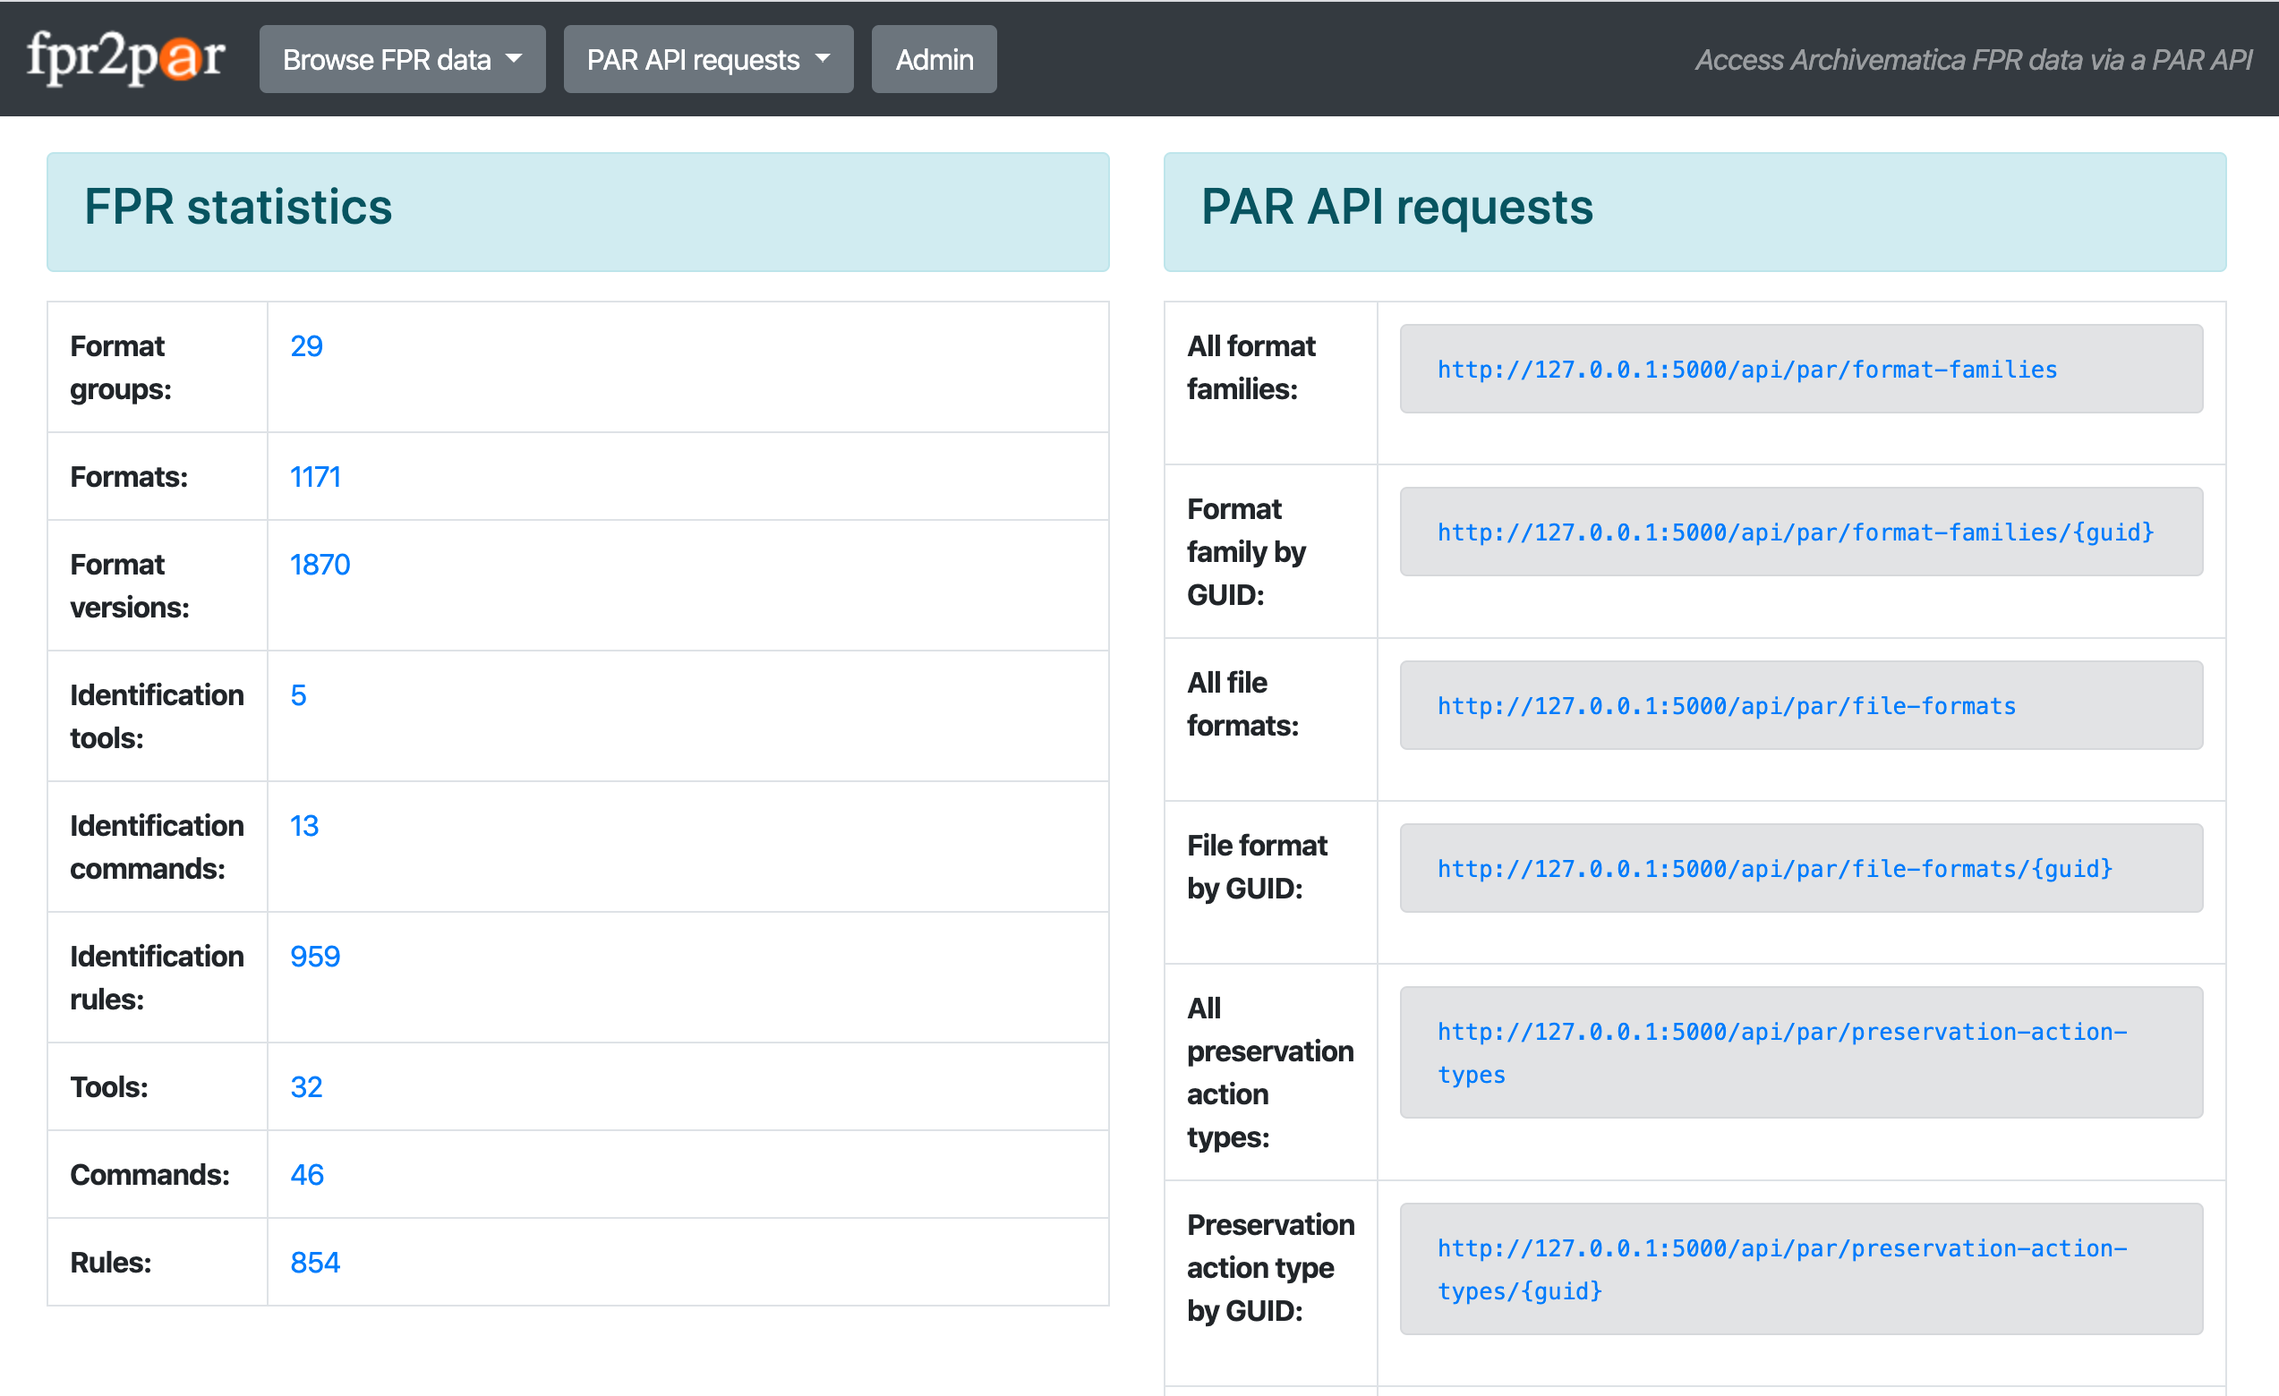
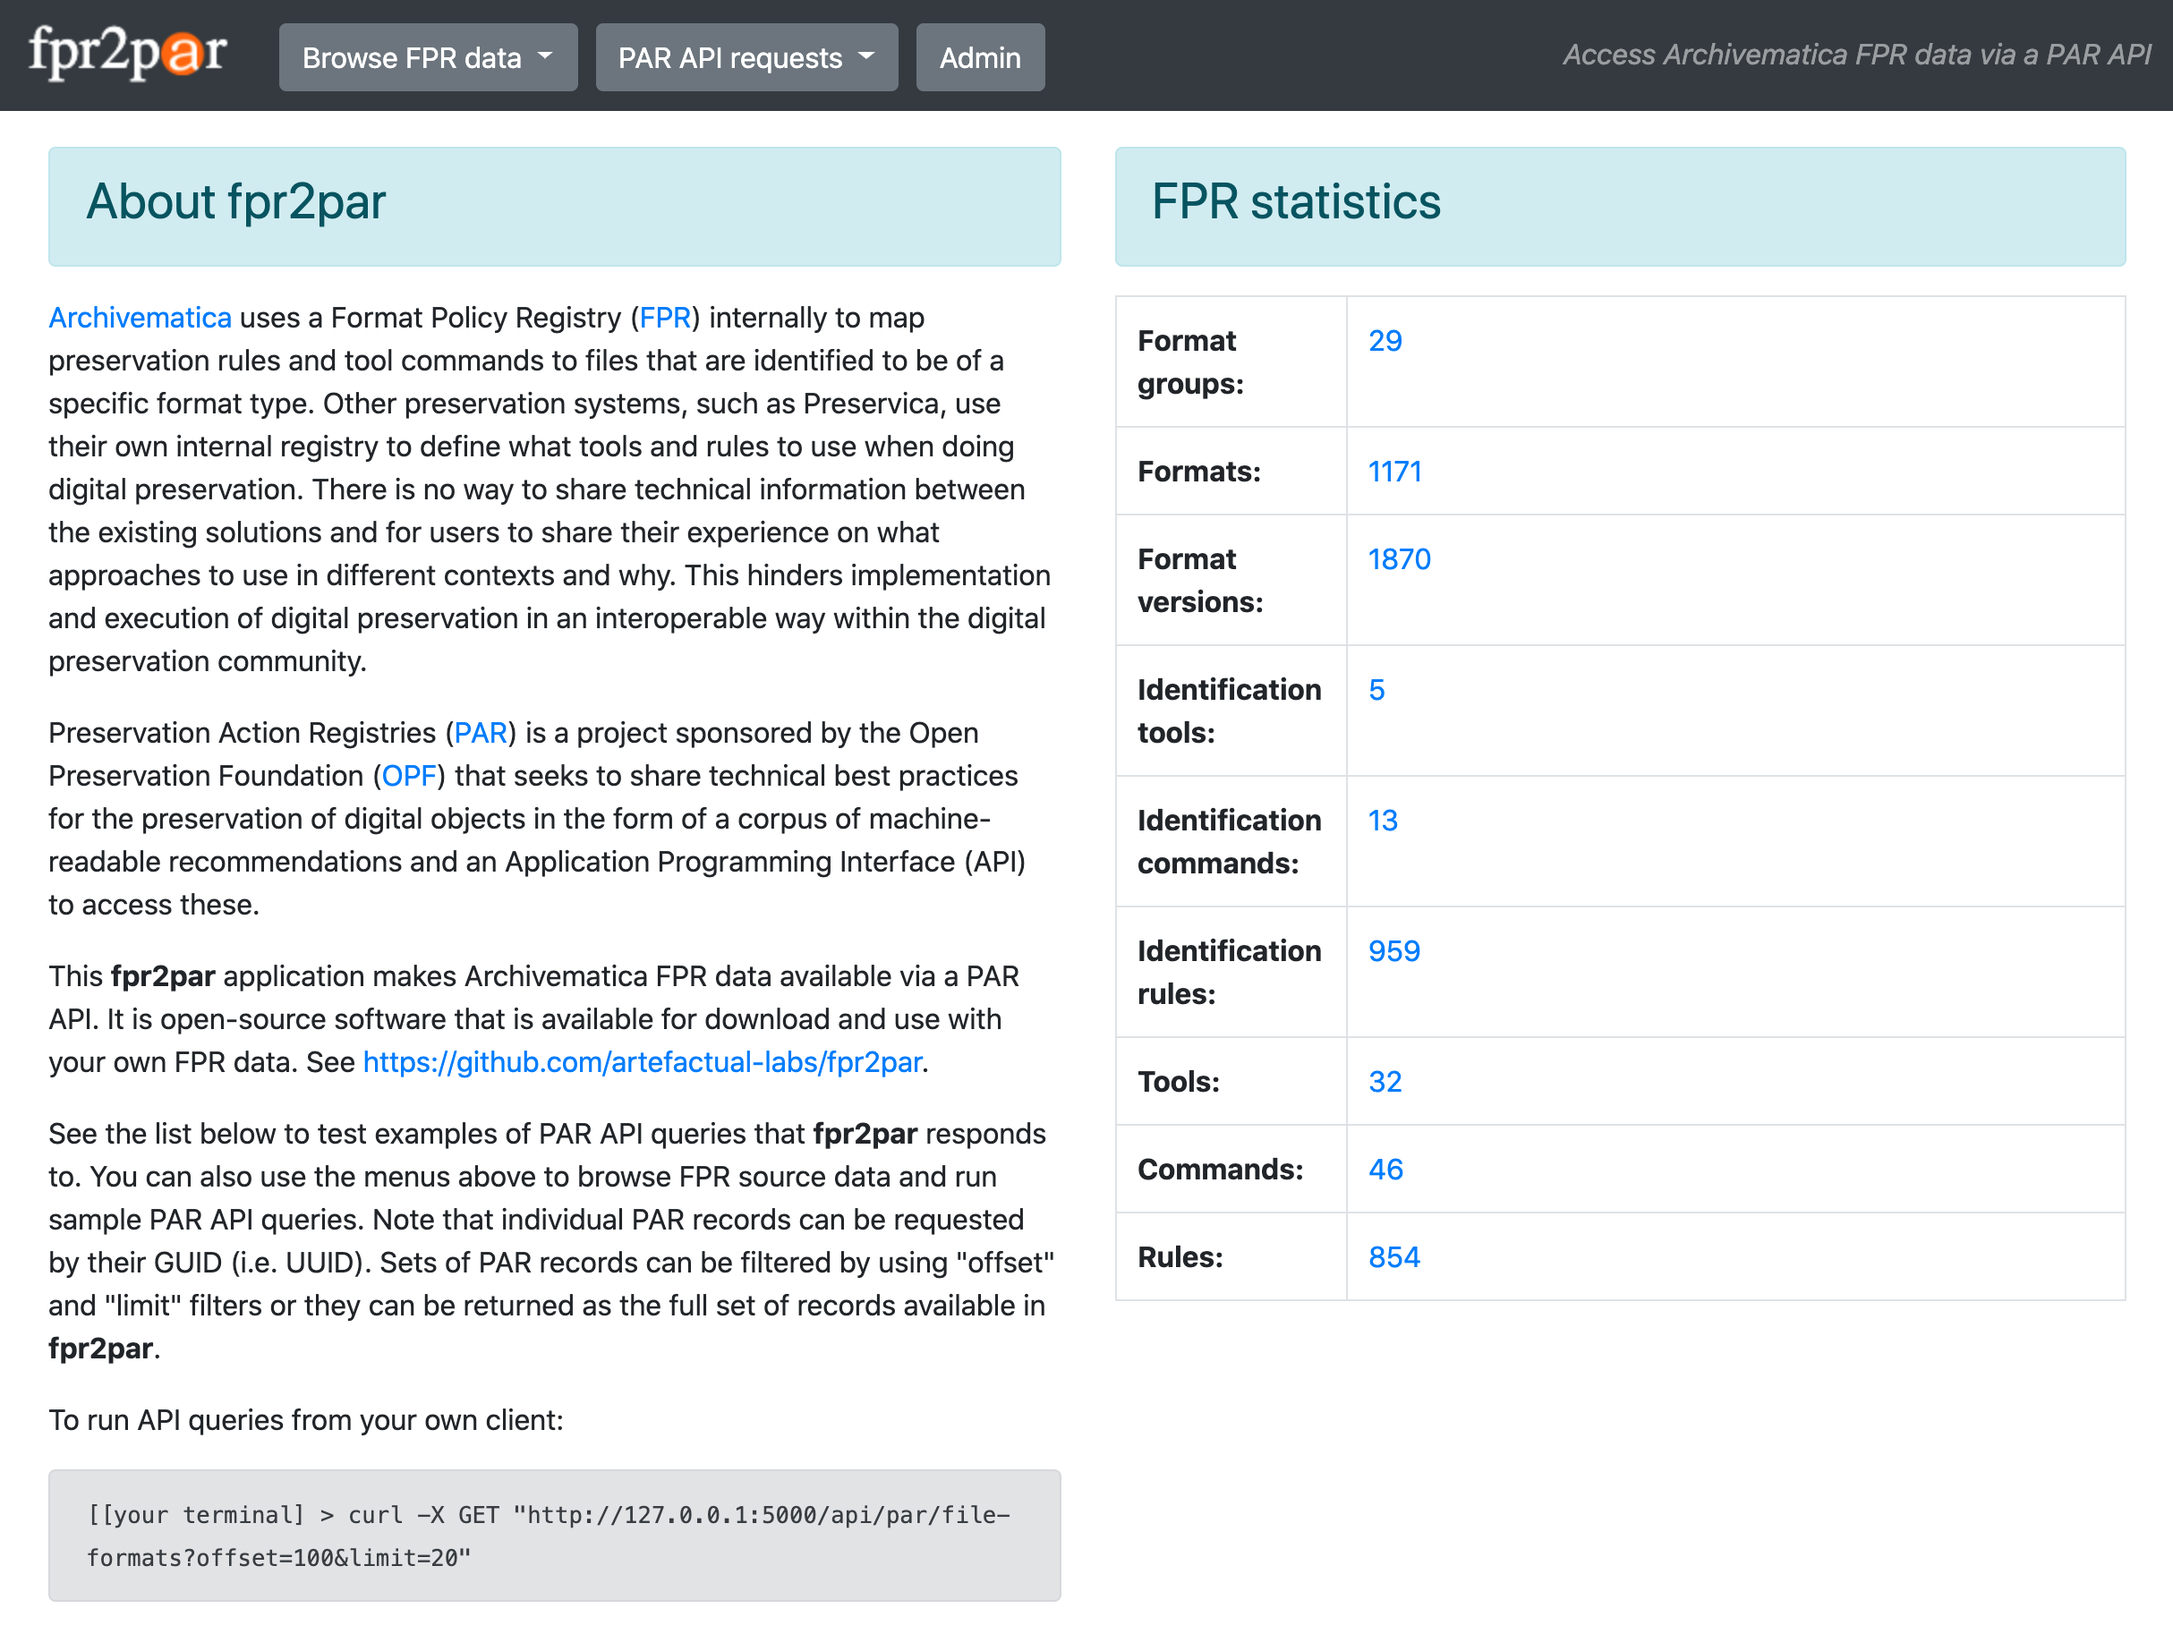
add 'About' text. update API links. update screencap.

diff --git a/fpr2par/templates/index.html b/fpr2par/templates/index.html
@@ -4,38 +4,56 @@
 
 <div class="container-fluid">
   <div class ="row">
-    <div class="col"><div class="alert alert-info"><h4 class="h3">FPR statistics</h4></div>
-    <table class="table table-bordered table-condensed">
-      <tr><td width=20%><strong>Format groups:</strong></td><td><a href="/fpr_format_groups">{{formatGroups}}</a></td></tr>
-      <tr><td width=20%><strong>Formats:</strong></td><td><a href="/fpr_formats">{{formats}}</a></td></tr>
-      <tr><td width=20%><strong>Format versions:</strong></td><td><a href="/fpr_format_versions">{{formatVersions}}</a></td></tr>
-      <tr><td width=20%><strong>Identification tools:</strong></td><td><a href="/fpr_id_tools">{{idTools}}</a></td></tr>
-      <tr><td width=20%><strong>Identification commands:</strong></td><td><a href="/fpr_id_commands">{{idCommands}}</a></td></tr>
-      <tr><td width=20%><strong>Identification rules:</strong></td><td><a href="/fpr_id_rules">{{idRules}}</a></td></tr>
-      <tr><td width=20%><strong>Tools:</strong></td><td><a href="/fpr_tools">{{tools}}</a></td></tr>
-      <tr><td width=20%><strong>Commands:</strong></td><td><a href="/fpr_commands">{{commands}}</a></td></tr>
-      <tr><td width=20%><strong>Rules:</strong></td><td><a href="/fpr_rules">{{rules}}</a></td></tr>
-    </table>
-    </div>
-    <div class="col">
-      <div class="alert alert-info"><h4 class="h3">PAR API requests</h4></div>
-        <table class="table table-bordered table-condensed">
-          <tr><td width=20%><strong>Format families (offset=0, limit=3):</strong></td><td><div class="alert alert-secondary text-monospace"><small><a href="api/par/format-families?offset=0&limit=3">{{apiUrl}}/format-families</a></small></div></td></tr>
-          <tr><td width=20%><strong>Format family by GUID:</strong></td><td><div class="alert alert-secondary text-monospace"><small><a href="api/par/format-families/c94ce0e6-c275-4c09-b802-695a18b7bf2a"><id>{{apiUrl}}/format-families/{guid}</a></small></div></td></tr>
-          <tr><td width=20%><strong>File formats (offset=20, limit=20):</strong></td><td><div class="alert alert-secondary text-monospace"><small><a href="api/par/file-formats?offset=20&limit=20">{{apiUrl}}/file-formats</a></small></div></td></tr>
-          <tr><td width=20%><strong>File format by GUID:</strong></td><td><div class="alert alert-secondary text-monospace"><small><a href="api/par/file-formats/36800d63-1bb5-4324-ba8c-90e222eeddbc">{{apiUrl}}/file-formats/{guid}</a></small></div></td></tr>
-          <tr><td width=20%><strong>Preservation action types (limit=3, offset=0):</strong></td><td><div class="alert alert-secondary text-monospace"><small><a href="api/par/preservation-action-types?limit=3&offset=0">{{apiUrl}}/preservation-action-types</a></small></div></td></tr>
-          <tr><td width=20%><strong>Preservation action type by GUID:</strong></td><td><div class="alert alert-secondary text-monospace"><small><a href="api/par/preservation-action-types/d3c7ef45-5c58-4897-b145-d41afbf82c61">{{apiUrl}}/preservation-action-types/{guid}</a></small></div></td></tr>
-          <tr><td width=20%><strong>All preservation actions:</strong></td><td><div class="alert alert-secondary text-monospace"><small><a href="api/par/preservation-actions">{{apiUrl}}/preservation-actions</a></small></div></td></tr>
-          <tr><td width=20%><strong>Preservation action by GUID:</strong></td><td><div class="alert alert-secondary text-monospace"><small><a href="api/par/preservation-actions/<guid>">{{apiUrl}}/preservation-actions/{guid}</a></small></div></td></tr>
-          <tr><td width=20%><strong>All tools:</strong></td><td><div class="alert alert-secondary text-monospace"><small><a href="api/par/tools">{{apiUrl}}/tools</a></small></div></td></tr>
-          <tr><td width=20%><strong>Tools by GUID:</strong></td><td><div class="alert alert-secondary text-monospace"><small><a href="api/par/tools/246ad3d4-6a5d-466b-a35c-26c1323d198e">{{apiUrl}}/tools/{guid}</a><small></div></td></tr>
-          <tr><td width=20%><strong>Business rule by GUID:</strong></td><td><div class="alert alert-secondary text-monospace"><small><a href="api/par/business-rules/<guid>">{{apiUrl}}/business-rules/{guid}</a></small></div></td></tr>
-        </table>
-    </div>
+      <div class="col"><div class="alert alert-info"><h4 class="h3">About fpr2par</h4></div>
+      <a href="https://archivematica.org">Archivematica</a> uses a Format Policy Registry (<a href="https://www.archivematica.org/en/docs/archivematica-1.11/user-manual/preservation/preservation-planning/">FPR</a>) internally to map preservation rules and tool commands to files that are identified to be of a specific format type. Other preservation systems, such as Preservica, use their own internal registry to define what tools and rules to use when doing digital preservation. There is no way to share technical information between the existing solutions and for users to share their experience on what approaches to use in different contexts and why. This hinders implementation and execution of digital preservation in an interoperable way within the digital preservation community.
+      <p> </p>
+      <p>Preservation Action Registries (<a href="http://parcore.org">PAR</a>) is a project sponsored by the Open Preservation Foundation (<a href="https://openpreservation.org/">OPF</a>) that seeks to share technical best practices for the preservation of digital objects in the form of a corpus of machine-readable recommendations and an Application Programming Interface (API) to access these.</p>
+
+      <p>This <strong>fpr2par</strong> application makes Archivematica FPR data available via a PAR API. It is open-source software that is available for download and use with your own FPR data. See <a href="https://github.com/artefactual-labs/fpr2par">https://github.com/artefactual-labs/fpr2par</a>.</p>
+
+      <p>See the list below to test examples of PAR API queries that <strong>fpr2par</strong> responds to. You can also use the menus above to browse FPR source data and run sample PAR API queries. Note that individual PAR records can be requested by their GUID (i.e. UUID). Sets of PAR records can be filtered by using "offset" and "limit" filters or they can be returned as the full set of records available in <strong>fpr2par</strong>.</p>
+
+      <p>To run API queries from your own client:<br/>
+        <div class="alert alert-secondary text-monospace"><small>[[your terminal] > curl -X GET "{{ apiUrl }}/file-formats?offset=100&limit=20"</small></div>
+      </div></p>
+
+      <div class="col"><div class="alert alert-info"><h4 class="h3">FPR statistics</h4></div>
+      <table class="table table-bordered table-condensed">
+        <tr><td width=20%><strong>Format groups:</strong></td><td><a href="/fpr_format_groups">{{formatGroups}}</a></td></tr>
+        <tr><td width=20%><strong>Formats:</strong></td><td><a href="/fpr_formats">{{formats}}</a></td></tr>
+        <tr><td width=20%><strong>Format versions:</strong></td><td><a href="/fpr_format_versions">{{formatVersions}}</a></td></tr>
+        <tr><td width=20%><strong>Identification tools:</strong></td><td><a href="/fpr_id_tools">{{idTools}}</a></td></tr>
+        <tr><td width=20%><strong>Identification commands:</strong></td><td><a href="/fpr_id_commands">{{idCommands}}</a></td></tr>
+        <tr><td width=20%><strong>Identification rules:</strong></td><td><a href="/fpr_id_rules">{{idRules}}</a></td></tr>
+        <tr><td width=20%><strong>Tools:</strong></td><td><a href="/fpr_tools">{{tools}}</a></td></tr>
+        <tr><td width=20%><strong>Commands:</strong></td><td><a href="/fpr_commands">{{commands}}</a></td></tr>
+        <tr><td width=20%><strong>Rules:</strong></td><td><a href="/fpr_rules">{{rules}}</a></td></tr>
+      </table>
+      </div>
   </div>
 </div>
 
+<hr />
 
+<div class="container-fluid">
+      <div class="alert alert-info"><h4 class="h3">Example PAR API requests</h4></div>
+        <table class="table table-bordered table-condensed">
+          <tr><td><strong>Format family by GUID:</strong></td><td><div class="alert alert-secondary text-monospace"><small><a href="api/par/format-families/c94ce0e6-c275-4c09-b802-695a18b7bf2a">{{apiUrl}}/format-families/c94ce0e6-c275-4c09-b802-695a18b7bf2a</a></small></div></td></tr>
+          <tr><td><strong>Format families (with offset and limit):</strong></td><td><div class="alert alert-secondary text-monospace"><small><a href="api/par/format-families?offset=0&limit=3">{{apiUrl}}/format-families?offset=0&limit=3</a></small></div></td></tr>
+          <tr><td><strong>All format families:<strong></td><td><div class="alert alert-secondary text-monospace"><small><a href="api/par/format-families">{{apiUrl}}/format-families</a></small></div></td></tr>
+          <tr><td><strong>File format by GUID:</strong></td><td><div class="alert alert-secondary text-monospace"><small><a href="api/par/file-formats/36800d63-1bb5-4324-ba8c-90e222eeddbc">{{apiUrl}}/file-formats/36800d63-1bb5-4324-ba8c-90e222eeddbc</a></small></div></td></tr>
+          <tr><td><strong>File formats (with offset and limit):</strong></td><td><div class="alert alert-secondary text-monospace"><small><a href="api/par/file-formats?offset=20&limit=20">{{apiUrl}}/file-formats?offset=20&limit=20</a></small></div></td></tr>
+          <tr><td><strong>All file formats:</strong></td><td><div class="alert alert-secondary text-monospace"><small><a href="api/par/file-formats">{{apiUrl}}/file-formats</a></small></div></td></tr>
+          <tr><td><strong>Preservation action type by GUID:</strong></td><td><div class="alert alert-secondary text-monospace"><small><a href="api/par/preservation-action-types/d3c7ef45-5c58-4897-b145-d41afbf82c61">{{apiUrl}}/preservation-action-types/d3c7ef45-5c58-4897-b145-d41afbf82c61</a></small></div></td></tr>
+          <tr><td><strong>Preservation action types (with offset and limit):</strong></td><td><div class="alert alert-secondary text-monospace"><small><a href="api/par/preservation-action-types?limit=3&offset=0">{{apiUrl}}/preservation-action-types?limit=3&offset=0</a></small></div></td></tr>
+          <tr><td><strong>All preservation action types:</strong></td><td><div class="alert alert-secondary text-monospace"><small><a href="api/par/preservation-action-types">{{apiUrl}}/preservation-action-types</a></small></div></td></tr>
+          <tr><td><strong>Preservation action by GUID:</strong></td><td><div class="alert alert-secondary text-monospace"><small><a href="api/par/preservation-actions/<guid>">{{apiUrl}}/preservation-actions/{guid}</a></small></div></td></tr>
+          <tr><td><strong>All preservation actions:</strong></td><td><div class="alert alert-secondary text-monospace"><small><a href="api/par/preservation-actions">{{apiUrl}}/preservation-actions</a></small></div></td></tr>
+          <tr><td><strong>Tools by GUID:</strong></td><td><div class="alert alert-secondary text-monospace"><small><a href="api/par/tools/246ad3d4-6a5d-466b-a35c-26c1323d198e">{{apiUrl}}/tools/246ad3d4-6a5d-466b-a35c-26c1323d198e</a><small></div></td></tr>
+          <tr><td><strong>All tools:</strong></td><td><div class="alert alert-secondary text-monospace"><small><a href="api/par/tools">{{apiUrl}}/tools</a></small></div></td></tr>
+          <tr><td><strong>Business rule by GUID:</strong></td><td><div class="alert alert-secondary text-monospace"><small><a href="api/par/business-rules/<guid>">{{apiUrl}}/business-rules/{guid}</a></small></div></td></tr>
+          <tr><td><strong>All business rules:</strong></td><td><div class="alert alert-secondary text-monospace"><small><a href="api/par/business-rules">{{apiUrl}}/business-rules</a></small></div></td></tr>
+        </table>
+</div>
 
 {% endblock %}

diff --git a/fpr2par/templates/base.html b/fpr2par/templates/base.html
@@ -37,17 +37,18 @@
           PAR API requests
         </button>
         <div class="dropdown-menu" aria-labelledby="dropdownMenuButton">
-          <a class="dropdown-item" href="/api/par/format-families?offset=0&limit=3">api/par/format-families</a>
           <a class="dropdown-item" href="/api/par/format-families/c94ce0e6-c275-4c09-b802-695a18b7bf2a"><id>api/par/format-families/{guid}</a>
-          <a class="dropdown-item" href="/api/par/file-formats?offset=20&limit=20">api/par/file-formats</a>
+          <a class="dropdown-item" href="/api/par/format-families?offset=0&limit=3">api/par/format-families</a>
           <a class="dropdown-item" href="/api/par/file-formats/36800d63-1bb5-4324-ba8c-90e222eeddbc">api/par/file-formats/{guid}</a>
-          <a class="dropdown-item" href="/api/par/preservation-action-types">api/par/preservation-action-types</a>
+          <a class="dropdown-item" href="/api/par/file-formats?offset=20&limit=20">api/par/file-formats</a>
           <a class="dropdown-item" href="/api/par/preservation-action-types/d3c7ef45-5c58-4897-b145-d41afbf82c61">api/par/preservation-action-types/{guid}</a>
-          <a class="dropdown-item" href="/api/par/preservation-action-types?limit=3&offset=0">api/par/preservation-actions</a>
+          <a class="dropdown-item" href="/api/par/preservation-action-types?limit=3&offset=0">api/par/preservation-action-types</a>
           <a class="dropdown-item" href="/api/par/preservation-actions/<guid>">api/par/preservation-actions/{guid}</a>
-          <a class="dropdown-item" href="/api/par/tools">api/par/tools</a>
+          <a class="dropdown-item" href="/api/par/preservation-actions">api/par/preservation-actions</a>
           <a class="dropdown-item" href="/api/par/tools/246ad3d4-6a5d-466b-a35c-26c1323d198e">api/par/tools/{guid}</a>
+          <a class="dropdown-item" href="/api/par/tools">api/par/tools</a>
           <a class="dropdown-item" href="/api/par/business-rules/<guid>">api/par/business-rules/{guid}</a>
+          <a class="dropdown-item" href="/api/par/business-rules">api/par/business-rules</a>
         </div>
       </div>
 

diff --git a/fpr2par/views.py b/fpr2par/views.py
@@ -555,3 +555,8 @@ def tools():
 @app.route("/api/par/business-rules/<guid>", methods=["GET"])
 def businessRule(guid):
     return jsonify({"response": "Not implemented"})
+
+
+@app.route("/api/par/business-rules", methods=["GET"])
+def businessRules():
+    return jsonify({"response": "Not implemented"})
